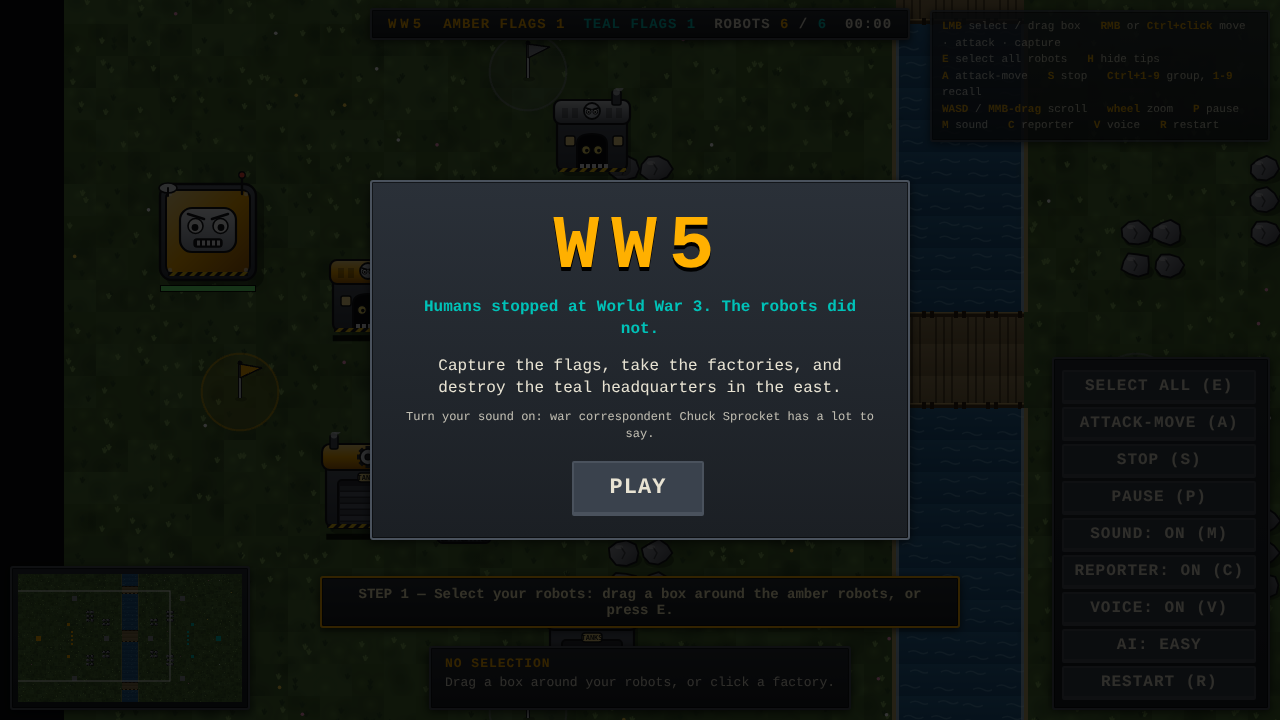
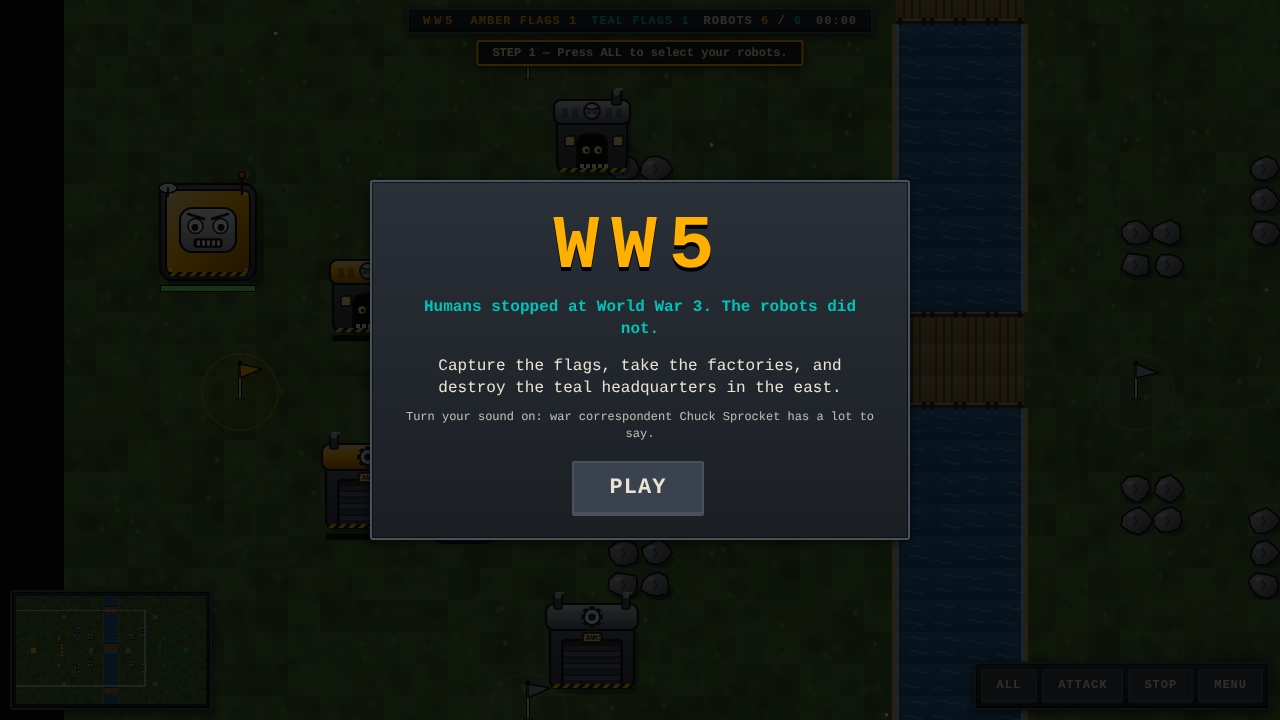
Declutter the HUD and make controls mouse-only
- Settings and controls help move into a Menu popup; four quick buttons (All, Attack, Stop, Menu).
- With robots selected, a left-click on the map is the command (move / capture / attack); edge scrolling.
- Selection panel only when something is selected; slimmer coach that retires; quieter feed, Chuck and terrain.
- Browser test: 43 checks incl. mouse-only flow, edge scroll, menu.

Claude-Session: https://claude.ai/code/session_01CgZDST9TwiPSCrQ5buL1da

diff --git a/index.html b/index.html
@@ -21,33 +21,36 @@
         pointer-events: auto; background: linear-gradient(180deg, var(--steel-2), var(--steel));
         border: 2px solid var(--edge); box-shadow: inset 0 0 0 1px #0008, 0 2px 8px #000a; border-radius: 3px;
       }
-      #top { position: absolute; top: 8px; left: 50%; transform: translateX(-50%); display: flex; gap: 18px; padding: 6px 16px; font-weight: bold; letter-spacing: 1px; font-size: 14px; }
+      #top { position: absolute; top: 8px; left: 50%; transform: translateX(-50%); display: flex; gap: 14px; padding: 4px 14px; font-weight: bold; letter-spacing: 1px; font-size: 12px; }
       #top .title { color: var(--amber); letter-spacing: 4px; }
       #top .you { color: var(--amber); } #top .foe { color: var(--teal); }
-      #minimap-wrap { position: absolute; left: 10px; bottom: 10px; padding: 6px; }
-      #minimap { display: block; width: 224px; height: 128px; cursor: crosshair; image-rendering: pixelated; }
-      #sel { position: absolute; left: 50%; bottom: 10px; transform: translateX(-50%); min-width: 340px; padding: 8px 14px; font-size: 13px; min-height: 64px; }
+      #minimap-wrap { position: absolute; left: 10px; bottom: 10px; padding: 4px; }
+      #minimap { display: block; width: 190px; height: 108px; cursor: crosshair; image-rendering: pixelated; }
+      #sel { position: absolute; left: 50%; bottom: 10px; transform: translateX(-50%); padding: 6px 14px; font-size: 12px; }
       #sel .h { color: var(--amber); font-weight: bold; letter-spacing: 1px; margin-bottom: 4px; }
       #sel .bar { height: 8px; background: #000; border: 1px solid var(--edge); margin: 4px 0; } #sel .bar i { display: block; height: 100%; background: var(--amber); }
       button { font: inherit; font-weight: bold; text-transform: uppercase; letter-spacing: 1px; color: var(--ink); background: #3a424d; border: 2px solid var(--edge); border-bottom-width: 4px; padding: 5px 10px; margin: 3px 4px 0 0; cursor: pointer; border-radius: 2px; }
       button:hover { background: #4b5563; color: var(--amber); } button:active { border-bottom-width: 2px; transform: translateY(2px); }
-      #btns { position: absolute; right: 10px; bottom: 10px; padding: 8px; display: flex; flex-direction: column; }
-      #coach { position: absolute; bottom: 92px; left: 50%; transform: translateX(-50%); max-width: 640px; padding: 8px 16px; font-size: 14px; font-weight: bold; color: #fff3c4; text-align: center; border-color: var(--amber); }
-      #reporter { position: absolute; left: 10px; bottom: 158px; width: 350px; padding: 8px; display: none; border-color: #3b6ea8; }
-      #reporter .head { display: flex; gap: 10px; align-items: center; }
-      #rep-face { width: 96px; height: 96px; border: 2px solid #0b0d10; border-radius: 4px; box-shadow: 0 0 0 2px var(--edge), 0 0 14px #3b6ea866; flex: none; }
-      #reporter .live { color: #ff5a4d; font-size: 12px; font-weight: bold; letter-spacing: 2px; animation: blink 1.2s steps(2) infinite; }
-      #reporter .name { color: var(--amber); font-weight: bold; font-size: 15px; letter-spacing: 1px; }
-      #reporter .net { font-size: 11px; opacity: .75; letter-spacing: 2px; }
-      #rep-text { margin-top: 8px; padding: 6px 8px; background: #000b; border-left: 3px solid var(--amber); font-size: 14px; line-height: 1.35; min-height: 56px; }
+      /* settings live in a popup that opens from the Menu button */
+      #btns { position: absolute; right: 10px; bottom: 56px; width: 290px; padding: 8px; display: none; grid-template-columns: 1fr 1fr; gap: 6px; z-index: 5; }
+      #btns.open { display: grid; }
+      #btns button { margin: 0; font-size: 12px; }
+      /* one slim line of guidance, top centre, that retires once you have the hang of it */
+      #coach { position: absolute; top: 40px; left: 50%; transform: translateX(-50%); max-width: 560px; padding: 4px 14px; font-size: 12px; font-weight: bold; color: #fff3c4; text-align: center; border-color: var(--amber); background: #12151ad9; }
+      #reporter { position: absolute; left: 10px; bottom: 134px; width: 300px; padding: 6px; display: none; border-color: #3b6ea8; }
+      #reporter .head { display: flex; gap: 8px; align-items: center; }
+      #rep-face { width: 64px; height: 64px; border: 2px solid #0b0d10; border-radius: 4px; box-shadow: 0 0 0 2px var(--edge); flex: none; }
+      #reporter .live { color: #ff5a4d; font-size: 10px; font-weight: bold; letter-spacing: 2px; animation: blink 1.2s steps(2) infinite; }
+      #reporter .name { color: var(--amber); font-weight: bold; font-size: 13px; letter-spacing: 1px; }
+      #rep-text { margin-top: 6px; padding: 5px 8px; background: #000b; border-left: 3px solid var(--amber); font-size: 13px; line-height: 1.35; min-height: 0; }
       @keyframes blink { 50% { opacity: .25; } }
-      #feed { position: absolute; left: 10px; top: 10px; width: 300px; font-size: 13px; text-shadow: 0 1px 2px #000; }
-      #feed div { background: #0009; border-left: 3px solid var(--amber); padding: 3px 8px; margin-bottom: 3px; }
+      #feed { position: absolute; left: 10px; top: 10px; width: 230px; font-size: 12px; text-shadow: 0 1px 2px #000; }
+      #feed div { background: #0009; border-left: 3px solid var(--amber); padding: 2px 8px; margin-bottom: 3px; }
       #feed div.lost { border-color: #ff5a4d; } #feed div.won { border-color: #6dff7a; }
       #end { position: absolute; inset: 0; display: none; align-items: center; justify-content: center; flex-direction: column; background: #000a; pointer-events: auto; }
       #end h1 { font-size: 72px; letter-spacing: 12px; margin: 0 0 8px; text-shadow: 0 4px 0 #000; }
       #end p { margin: 0 0 20px; font-size: 18px; } #end button { font-size: 20px; padding: 10px 24px; }
-      #help { position: absolute; right: 10px; top: 10px; max-width: 340px; padding: 6px 10px; font-size: 11px; line-height: 1.5; opacity: .85; }
+      #help { grid-column: 1 / -1; margin-top: 4px; padding-top: 8px; border-top: 1px solid var(--edge); font-size: 11px; line-height: 1.5; opacity: .9; }
       #help b { color: var(--amber); }
 
       #start { position: absolute; inset: 0; display: flex; align-items: center; justify-content: center; background: #000c; pointer-events: auto; z-index: 30; }
@@ -63,7 +66,8 @@
       html, body { touch-action: none; overscroll-behavior: none; -webkit-user-select: none; -webkit-touch-callout: none; -webkit-tap-highlight-color: transparent; }
       #game, #hud { inset: env(safe-area-inset-top, 0px) env(safe-area-inset-right, 0px) env(safe-area-inset-bottom, 0px) env(safe-area-inset-left, 0px); }
       #game canvas { touch-action: none; }
-      #qbtns { display: none; }
+      #qbtns { display: flex; position: absolute; right: 10px; bottom: 10px; gap: 5px; padding: 5px; }
+      #qbtns button { margin: 0; padding: 7px 14px; font-size: 12px; }
       @media (pointer: coarse), (max-width: 760px) {
         #help { display: none; }
         #top { top: 4px; left: 6px; right: 6px; transform: none; gap: 8px; font-size: 10px; padding: 4px 6px; letter-spacing: 0; flex-wrap: nowrap; justify-content: center; white-space: nowrap; }
@@ -74,7 +78,7 @@
         #reporter .net { display: none; }
         #rep-text { font-size: 12px; min-height: 38px; margin-top: 4px; padding: 4px 6px; }
         #feed { top: 176px; width: 70%; font-size: 11px; }
-        #coach { bottom: 156px; left: 6px; right: 6px; transform: none; max-width: none; font-size: 12px; padding: 6px 10px; }
+        #coach { top: auto; bottom: 156px; left: 6px; right: 6px; transform: none; max-width: none; font-size: 12px; padding: 5px 10px; }
         #sel { bottom: 100px; left: 6px; right: 6px; transform: none; min-width: 0; min-height: 0; font-size: 12px; padding: 6px 10px; }
         #minimap-wrap { left: 6px; bottom: 6px; padding: 3px; }
         #minimap { width: 150px; height: 86px; }
@@ -91,7 +95,7 @@
         #rep-face { width: 44px; height: 44px; }
         #rep-text { min-height: 0; font-size: 11px; }
         #feed { display: none; }
-        #coach { bottom: 74px; left: 166px; right: 6px; font-size: 11px; padding: 4px 8px; }
+        #coach { top: auto; bottom: 74px; left: 166px; right: 6px; font-size: 11px; padding: 4px 8px; }
         #sel { bottom: 6px; left: 166px; right: auto; width: 200px; }
         #qbtns { left: auto; width: 270px; bottom: 6px; }
         #sel { display: none; }
@@ -113,36 +117,32 @@
       <div id="reporter" class="panel">
         <div class="head">
           <canvas id="rep-face" width="96" height="96"></canvas>
-          <div><div class="live">&#9679; LIVE</div><div class="name">CHUCK SPROCKET</div><div class="net">WW5 NEWS · WAR DESK</div></div>
+          <div><div class="live">&#9679; LIVE</div><div class="name">CHUCK SPROCKET</div></div>
         </div>
         <div id="rep-text"></div>
       </div>
       <div id="coach" class="panel"></div>
       <div id="feed"></div>
-      <div id="help" class="panel">
-        <b>LMB</b> select / drag box &nbsp; <b>RMB</b> or <b>Ctrl+click</b> move · attack · capture<br />
-        <b>E</b> select all robots &nbsp; <b>H</b> hide tips<br />
-        <b>A</b> attack-move &nbsp; <b>S</b> stop &nbsp; <b>Ctrl+1-9</b> group, <b>1-9</b> recall<br />
-        <b>WASD</b> / <b>MMB-drag</b> scroll &nbsp; <b>wheel</b> zoom &nbsp; <b>P</b> pause &nbsp; <b>M</b> sound &nbsp; <b>C</b> reporter &nbsp; <b>V</b> voice &nbsp; <b>R</b> restart
-      </div>
       <div id="minimap-wrap" class="panel"><canvas id="minimap" width="224" height="128"></canvas></div>
-      <div id="sel" class="panel"><div class="h">NO SELECTION</div>Drag a box around your robots, or click a factory.</div>
+      <div id="sel" class="panel" style="display:none"></div>
       <div id="btns" class="panel">
-        <button id="b-all">Select all (E)</button>
-        <button id="b-attack">Attack-move (A)</button>
-        <button id="b-stop">Stop (S)</button>
-        <button id="b-pause">Pause (P)</button>
-        <button id="b-mute">Sound: ON (M)</button>
-        <button id="b-rep">Reporter: ON (C)</button>
-        <button id="b-voice">Voice: ON (V)</button>
+        <button id="b-pause">Pause</button>
+        <button id="b-restart">Restart</button>
+        <button id="b-mute">Sound: ON</button>
+        <button id="b-rep">Reporter: ON</button>
+        <button id="b-voice">Voice: ON</button>
         <button id="b-diff">AI: EASY</button>
-        <button id="b-restart">Restart (R)</button>
+        <div id="help">
+          <b>Select:</b> click a robot, drag a box, or press All.<br />
+          <b>Command:</b> with robots selected, click the map. They move there, capture a flag, or attack an enemy, depending on what you click.<br />
+          <b>Look around:</b> push the mouse to a screen edge, or use the wheel to zoom.
+        </div>
       </div>
       <div id="qbtns" class="panel">
-        <button id="q-all">All</button>
-        <button id="q-atk">Attack</button>
-        <button id="q-stop">Stop</button>
-        <button id="q-menu">Menu</button>
+        <button id="q-all" title="Select all your robots">All</button>
+        <button id="q-atk" title="Attack-move: press, then click where to fight your way to">Attack</button>
+        <button id="q-stop" title="Stop the selected robots">Stop</button>
+        <button id="q-menu" title="Settings and controls">Menu</button>
       </div>
       <div id="start">
         <div class="box panel">

diff --git a/src/render/battle.ts b/src/render/battle.ts
@@ -52,6 +52,9 @@ export class BattleScene extends Phaser.Scene {
   private startForce = new URLSearchParams(location.search).get('start') !== '0';
   private pinch: { d: number; zoom: number; mx: number; my: number } | null = null;
   private touch = window.matchMedia?.('(pointer: coarse)').matches ?? false;
+  private tipsDone = false;
+  /** mouse is over the game (not a HUD panel): edge scrolling only applies then */
+  private overGame = false;
   private orderIssued = false;
   private myCaptures = 0;
   private coachOn = true;
@@ -100,12 +103,15 @@ export class BattleScene extends Phaser.Scene {
       this.started = true;
       $('start').style.display = 'none';
     };
+    // track whether the mouse is over the map itself; HUD panels sit above the canvas, so entering one counts as leaving
+    const cv = this.game.canvas;
+    cv.addEventListener('pointerenter', (e) => (this.overGame = e.pointerType === 'mouse'));
+    cv.addEventListener('pointerleave', () => (this.overGame = false));
     this.input.addPointer(1); // enables two-finger pan and pinch zoom
     $('q-all').onclick = () => this.selectAll();
     $('q-atk').onclick = () => this.armAttack();
     $('q-stop').onclick = () => this.stopSel();
     $('q-menu').onclick = () => $('btns').classList.toggle('open');
-    $('b-all').onclick = () => this.selectAll();
     $('b-rep').onclick = () => this.toggleReporter();
     $('b-voice').onclick = () => this.toggleVoice();
     $('b-diff').onclick = () => {
@@ -114,8 +120,6 @@ export class BattleScene extends Phaser.Scene {
       this.restart();
     };
 
-    $('b-attack').onclick = () => this.armAttack();
-    $('b-stop').onclick = () => this.stopSel();
     $('b-pause').onclick = () => this.togglePause();
     $('b-restart').onclick = () => this.restart();
     $('end-btn').onclick = () => this.restart();
@@ -151,6 +155,7 @@ export class BattleScene extends Phaser.Scene {
   private newMatch() {
     this.match = new Match(this.seed, [1], this.difficulty, this.startForce);
     this.orderIssued = false;
+    this.tipsDone = false;
     this.myCaptures = 0;
     this.director.reset();
     this.rep.reset();
@@ -190,17 +195,17 @@ export class BattleScene extends Phaser.Scene {
 
   private toggleReporter() {
     this.rep.setEnabled(!this.rep.enabled);
-    $('b-rep').textContent = this.rep.enabled ? 'Reporter: ON (C)' : 'Reporter: OFF (C)';
+    $('b-rep').textContent = this.rep.enabled ? 'Reporter: ON' : 'Reporter: OFF';
   }
 
   private toggleVoice() {
     this.rep.setVoice(!this.rep.voiceOn);
-    $('b-voice').textContent = this.rep.voiceOn ? 'Voice: ON (V)' : 'Voice: OFF (V)';
+    $('b-voice').textContent = this.rep.voiceOn ? 'Voice: ON' : 'Voice: OFF';
   }
 
   private toggleMute() {
     this.sfx.setMuted(!this.sfx.muted);
-    $('b-mute').textContent = this.sfx.muted ? 'Sound: OFF (M)' : 'Sound: ON (M)';
+    $('b-mute').textContent = this.sfx.muted ? 'Sound: OFF' : 'Sound: ON';
   }
 
   /** 0..1 loudness by distance from what the player is looking at; off-screen fights are faint or silent */
@@ -214,7 +219,7 @@ export class BattleScene extends Phaser.Scene {
 
   private togglePause() {
     this.paused = !this.paused;
-    $('b-pause').textContent = this.paused ? 'Resume (P)' : 'Pause (P)';
+    $('b-pause').textContent = this.paused ? 'Resume' : 'Pause';
     this.rep.say(this.paused ? 'pause' : 'resume', 1);
   }
 
@@ -345,8 +350,9 @@ export class BattleScene extends Phaser.Scene {
     }
     if (best) { this.sel = new Set([best.id]); this.selBuilding = null; return; }
     const bld = w.buildings.find((q) => q.owner === PLAYER && BUILDINGS[q.bkind].produces && Math.hypot(q.x - tx, q.y - ty) < BUILDINGS[q.bkind].half + 0.2);
-    // touch has no right button: with robots selected, a tap on the ground or a target is the command
-    if (p.wasTouch && !bld && this.sel.size) {
+    // mouse and touch alike: with robots selected, a click on the map is the command
+    // (ground = move, grey or enemy flag = capture, enemy robot or base = attack). Drag a box on empty ground to deselect.
+    if (!bld && this.sel.size) {
       this.rightClick(tx, ty);
       return;
     }
@@ -414,6 +420,17 @@ export class BattleScene extends Phaser.Scene {
     if (this.keys.D.isDown || this.keys.RIGHT.isDown) cam.scrollX += sp;
     if (this.keys.W.isDown || this.keys.UP.isDown) cam.scrollY -= sp;
     if (this.keys.S.isDown || this.keys.DOWN.isDown) cam.scrollY += sp;
+    // mouse-only scrolling: push the pointer against the edge of the map view (never while dragging or over a HUD panel)
+    const ptr = this.input.activePointer;
+    if (this.overGame && !ptr.isDown && !this.touch && this.started) {
+      const edge = 22;
+      const W = this.scale.width;
+      const H = this.scale.height;
+      if (ptr.x < edge) cam.scrollX -= sp;
+      else if (ptr.x > W - edge) cam.scrollX += sp;
+      if (ptr.y < edge) cam.scrollY -= sp;
+      else if (ptr.y > H - edge) cam.scrollY += sp;
+    }
 
     for (const id of [...this.sel]) if (!w.getEntity(id)) this.sel.delete(id);
     for (const f of this.fx) f.ttl -= delta;
@@ -449,7 +466,8 @@ export class BattleScene extends Phaser.Scene {
         const lost = e.prev === PLAYER;
         if (mine || lost) this.sfx.capture(mine);
         if (mine) this.myCaptures++;
-        this.feed(mine ? `Captured ${t.name}.` : lost ? `LOST ${t.name}!` : `Enemy took ${t.name}.`, mine ? 'won' : lost ? 'lost' : '');
+        // only news that concerns you; Chuck covers the rest
+        if (mine || lost) this.feed(mine ? `Captured ${t.name}.` : `LOST ${t.name}!`, mine ? 'won' : 'lost');
       } else if (e.t === 'victory') {
         this.ended = true;
         const win = e.winner === PLAYER;
@@ -469,8 +487,8 @@ export class BattleScene extends Phaser.Scene {
     if (cls) el.className = cls;
     const feed = $('feed');
     feed.prepend(el);
-    while (feed.children.length > 5) feed.lastChild!.remove();
-    setTimeout(() => el.remove(), 8000);
+    while (feed.children.length > 2) feed.lastChild!.remove();
+    setTimeout(() => el.remove(), 5000);
   }
 
   // ------------------------------------------------------------------ HUD
@@ -487,19 +505,21 @@ export class BattleScene extends Phaser.Scene {
     // Step-by-step coach: always tells a new player the next useful thing to do (H hides it).
     const mineN = w.unitsOf(0).length;
     let tip = '';
-    if (!this.coachOn || this.ended) tip = '';
+    if (this.myCaptures >= 3) this.tipsDone = true; // you have the hang of it: the coach retires
+    if (!this.coachOn || this.ended || this.tipsDone) tip = '';
     else if (mineN === 0) tip = 'Your factories are building your first robots. Hang on a few seconds...';
-    else if (!this.orderIssued && !this.sel.size) tip = this.touch ? 'STEP 1 — Tap ALL to select your robots (or drag a box around them).' : 'STEP 1 — Select your robots: drag a box around the amber robots, or press E.';
-    else if (!this.orderIssued) tip = this.touch ? 'STEP 2 — Tap a grey flag. Rifle robots will go and capture it.' : 'STEP 2 — Right-click (or Ctrl+click) a grey flag. Rifle robots will go and capture it.';
-    else if (this.myCaptures === 0) tip = 'Captured flags give you their factories and speed up production. Send robots to every flag!';
-    else if (mineN < 8) tip = 'STEP 3 — Capture more flags, and let your army grow to 8+ robots before attacking.';
-    else tip = this.touch ? 'STEP 4 — Tap ALL, then ATTACK, then tap the teal base in the east. Keep new robots coming.' : 'STEP 4 — Press E, then A and click the teal base in the east. Keep new robots coming. (H hides tips)';
+    else if (!this.orderIssued && !this.sel.size) tip = 'STEP 1 — Press ALL to select your robots.';
+    else if (!this.orderIssued) tip = 'STEP 2 — Click a grey flag. Your rifle robots will go and capture it.';
+    else if (this.myCaptures === 0) tip = 'Captured flags give you their factories. Click more flags!';
+    else if (mineN < 8) tip = 'STEP 3 — Keep capturing flags and let your army grow before attacking.';
+    else tip = 'STEP 4 — Press ALL, then ATTACK, then click the teal base in the east.';
     const coach = $('coach');
     coach.style.display = tip ? 'block' : 'none';
     if (tip && coach.textContent !== tip) coach.textContent = tip;
 
     // The panel is only re-rendered when its structure changes, so buttons stay clickable between frames.
     const panel = $('sel');
+    panel.style.display = this.selBuilding !== null || this.sel.size ? 'block' : 'none'; // nothing selected, nothing shown
     const render = (key: string, html: string) => {
       if (key === this.panelKey) return false;
       this.panelKey = key;
@@ -523,10 +543,10 @@ export class BattleScene extends Phaser.Scene {
         const u = w.getEntity(id) as Unit | undefined;
         if (u && 'type' in u) counts[UNITS[u.type].name] = (counts[UNITS[u.type].name] ?? 0) + 1;
       }
-      const html = `<div class="h">${this.sel.size} SELECTED</div>${Object.entries(counts).map(([k, v]) => `${v} × ${k}`).join(' · ')}<br/><small>RMB: move / attack / capture flag</small>${this.armedAttack ? '<br/><b style="color:#ff5a4d">ATTACK-MOVE: click a target point</b>' : ''}`;
+      const html = `<div class="h">${this.sel.size} SELECTED &nbsp;·&nbsp; ${Object.entries(counts).map(([k, v]) => `${v} × ${k}`).join(' · ')}</div><small>${this.armedAttack ? '<b style="color:#ff5a4d">ATTACK-MOVE: click where to fight your way to</b>' : 'Click the map: move, capture a flag, or attack'}</small>`;
       render('s:' + html, html);
     } else {
-      render('none' + this.touch, this.touch ? '<div class="h">NO SELECTION</div>Tap ALL, or drag a box around your robots. Tap a factory to manage it.' : '<div class="h">NO SELECTION</div>Drag a box around your robots, or click a factory.');
+      render('none', '');
     }
   }
 
@@ -580,8 +600,8 @@ export class BattleScene extends Phaser.Scene {
 
     for (const t of w.territories) {
       const cx = (t.fx + 0.5) * TS, cy = (t.fy + 0.5) * TS;
-      lo.fillStyle(teamColor(t.owner), 0.12).fillCircle(cx, cy, 1.2 * TS);
-      lo.lineStyle(2, teamColor(t.owner), 0.5).strokeCircle(cx, cy, 1.2 * TS);
+      lo.fillStyle(teamColor(t.owner), 0.07).fillCircle(cx, cy, 1.2 * TS);
+      lo.lineStyle(2, teamColor(t.owner), 0.35).strokeCircle(cx, cy, 1.2 * TS);
       lo.fillStyle(0x000000, 0.25).fillEllipse(cx + 1, cy + 7, 12, 5);
       lo.lineStyle(4, 0x15171b, 1).lineBetween(cx, cy + 6, cx, cy - 28);
       lo.lineStyle(2, 0xc9ccd3, 1).lineBetween(cx, cy + 6, cx, cy - 28);
@@ -656,7 +676,7 @@ export class BattleScene extends Phaser.Scene {
       s.smoke = now;
       this.fx.push({ x: u.x, y: u.y - 0.45, ttl: 750, life: 750, color: 0x555555, kind: 'smoke' });
     }
-    if (u.hp < def.hp || selected) {
+    if (u.hp < def.hp) {
       const wBar = 24;
       g.fillStyle(0x000000, 0.85).fillRect(x - wBar / 2 - 1, top, wBar + 2, 6);
       const f = Math.max(0, u.hp / def.hp);

diff --git a/src/render/sprites.ts b/src/render/sprites.ts
@@ -486,10 +486,10 @@ export function makeTerrainCanvas(map: MapDef, TS: number): HTMLCanvasElement {
       const py = y * TS;
       if (t !== T_WATER && t !== T_BRIDGE) {
         for (let k = 0; k < 3; k++) {
-          if (hash(x, y, k + 20) > 0.55) continue;
+          if (hash(x, y, k + 20) > 0.2) continue; // sparse tufts: the field should read as calm ground, not texture noise
           const tx = px + 4 + hash(x, y, k + 23) * (TS - 8);
           const ty = py + 8 + hash(x, y, k + 29) * (TS - 10);
-          g.strokeStyle = hash(x, y, k + 31) > 0.5 ? '#35532a' : '#7da654';
+          g.strokeStyle = hash(x, y, k + 31) > 0.5 ? '#3f5f30' : '#628c46';
           g.lineWidth = 1.6;
           g.beginPath();
           g.moveTo(tx, ty);
@@ -500,7 +500,7 @@ export function makeTerrainCanvas(map: MapDef, TS: number): HTMLCanvasElement {
           g.lineTo(tx + 2.5, ty - 4);
           g.stroke();
         }
-        if (hash(x, y, 40) > 0.93) {
+        if (hash(x, y, 40) > 0.985) {
           const fx = px + 6 + hash(x, y, 41) * (TS - 12);
           const fy = py + 6 + hash(x, y, 42) * (TS - 12);
           g.fillStyle = ['#ffffff', '#ffd84d', '#ff9ac8'][Math.floor(hash(x, y, 43) * 3)];
